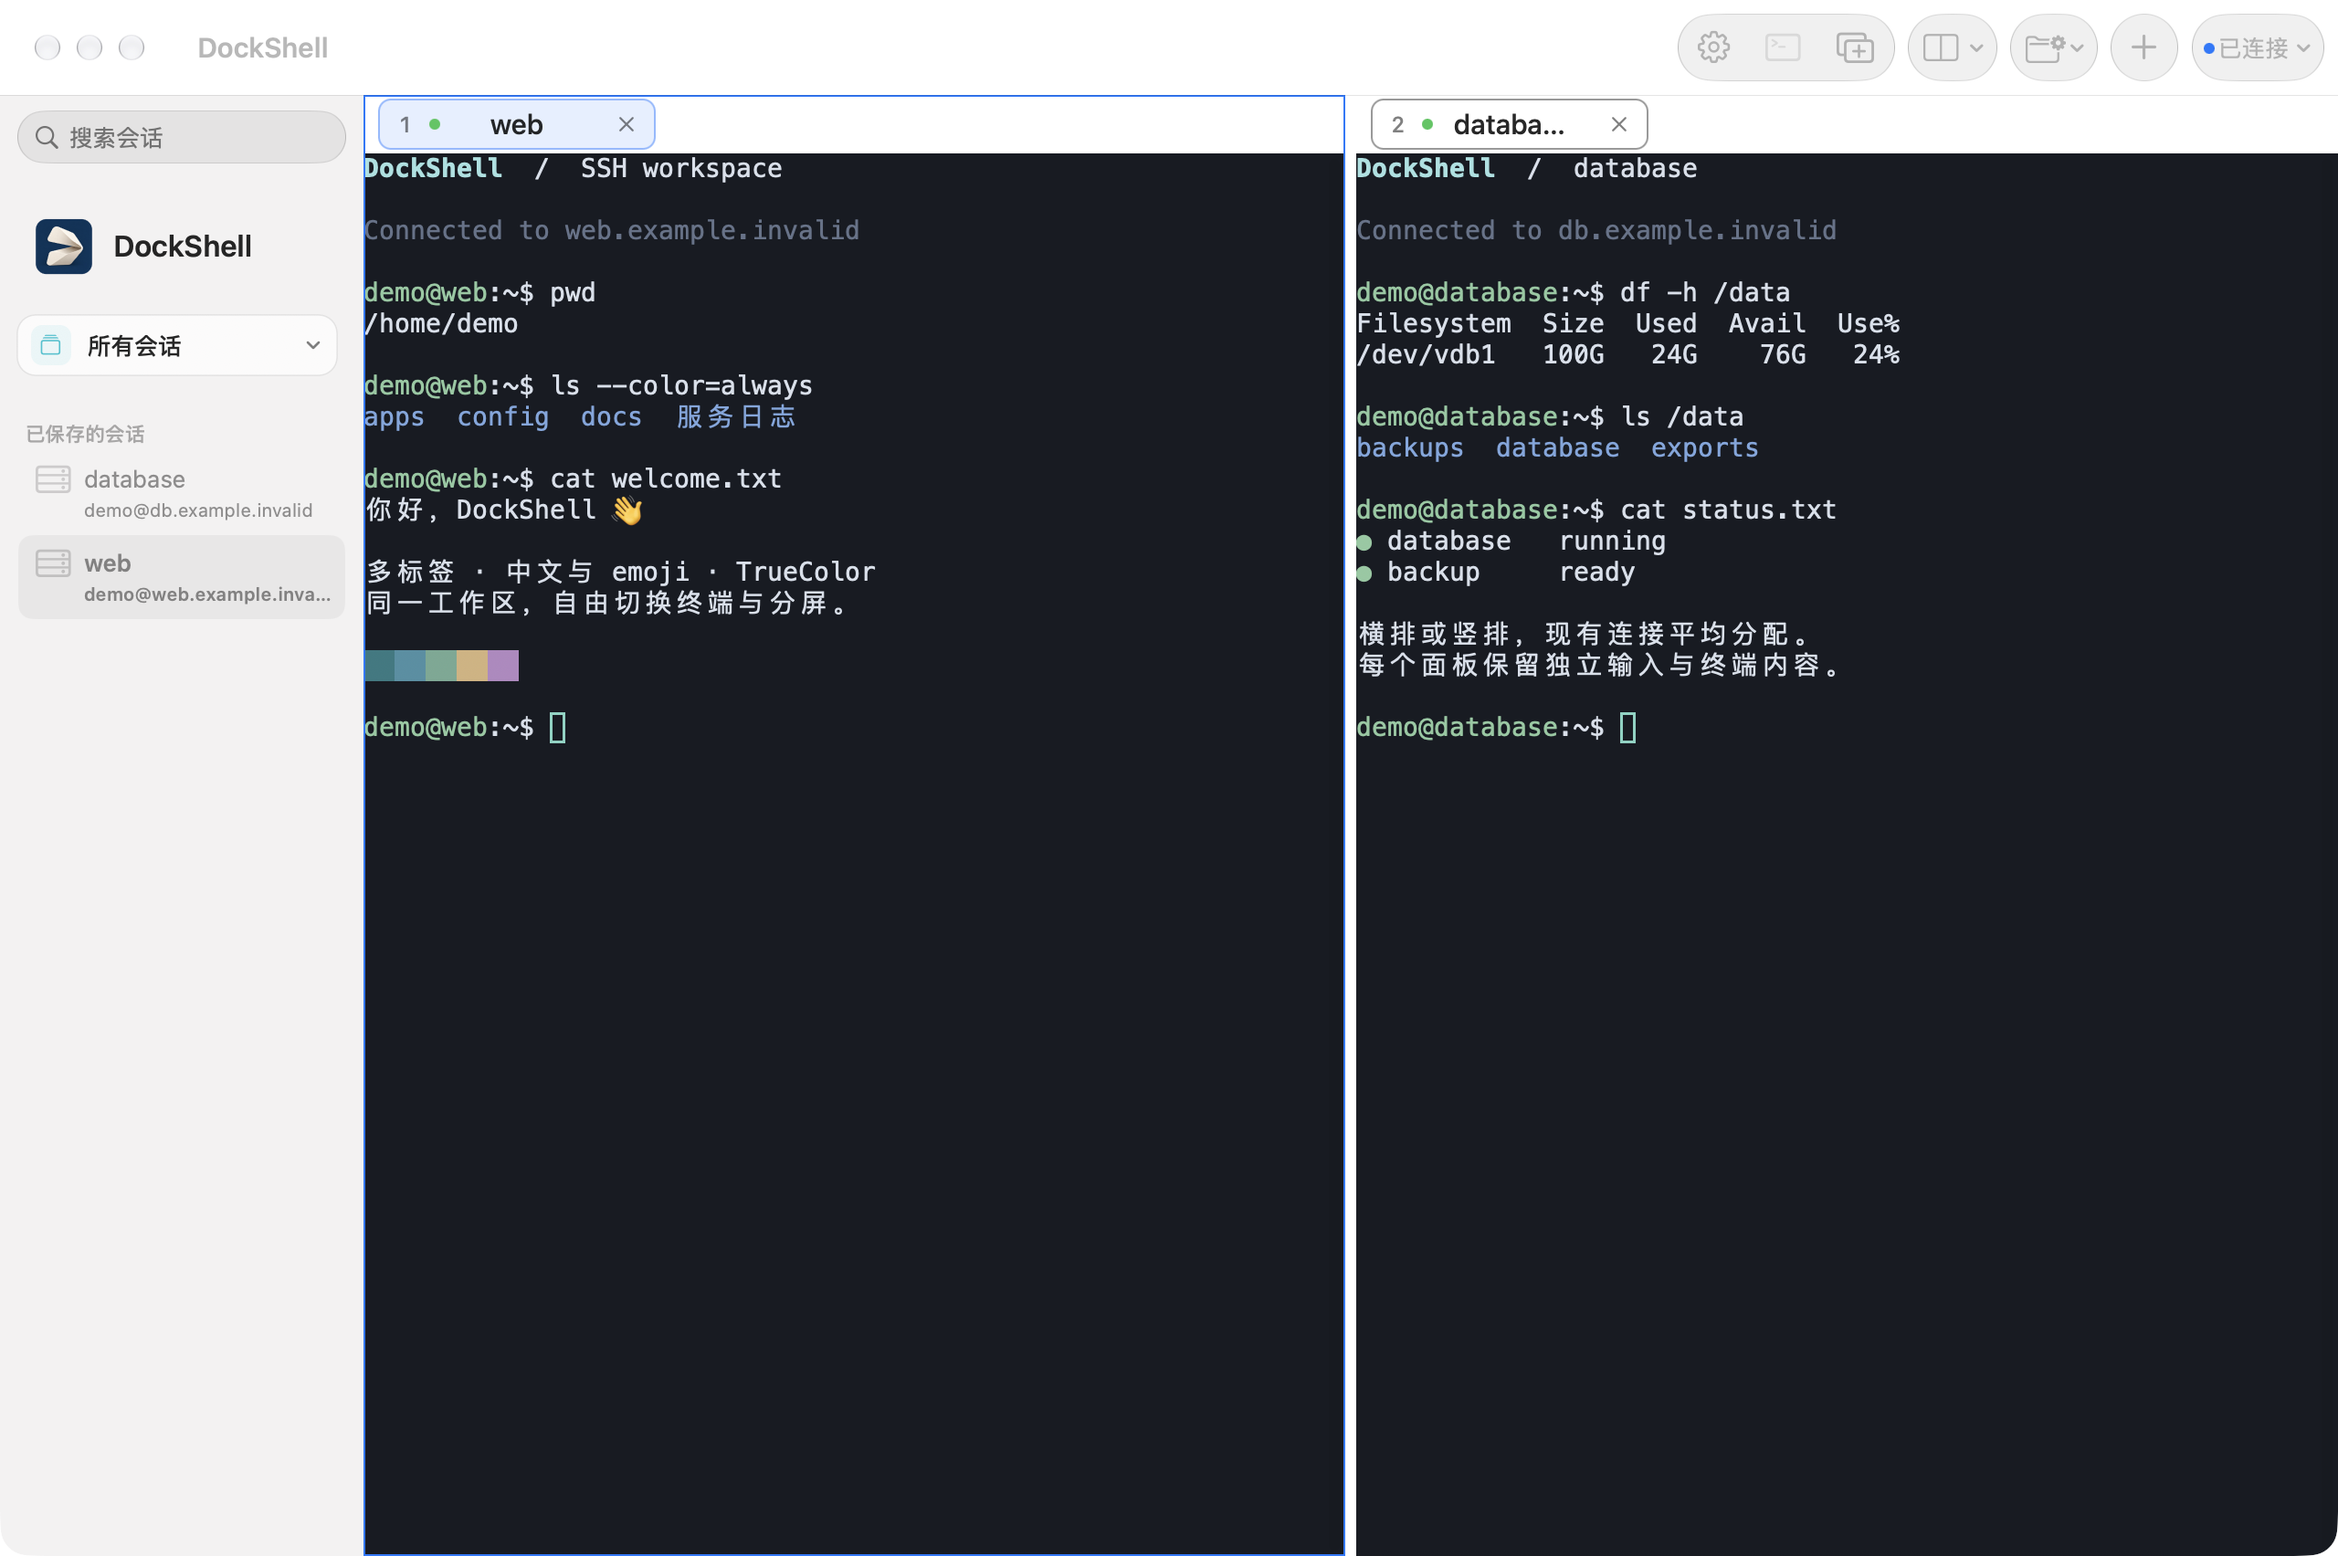
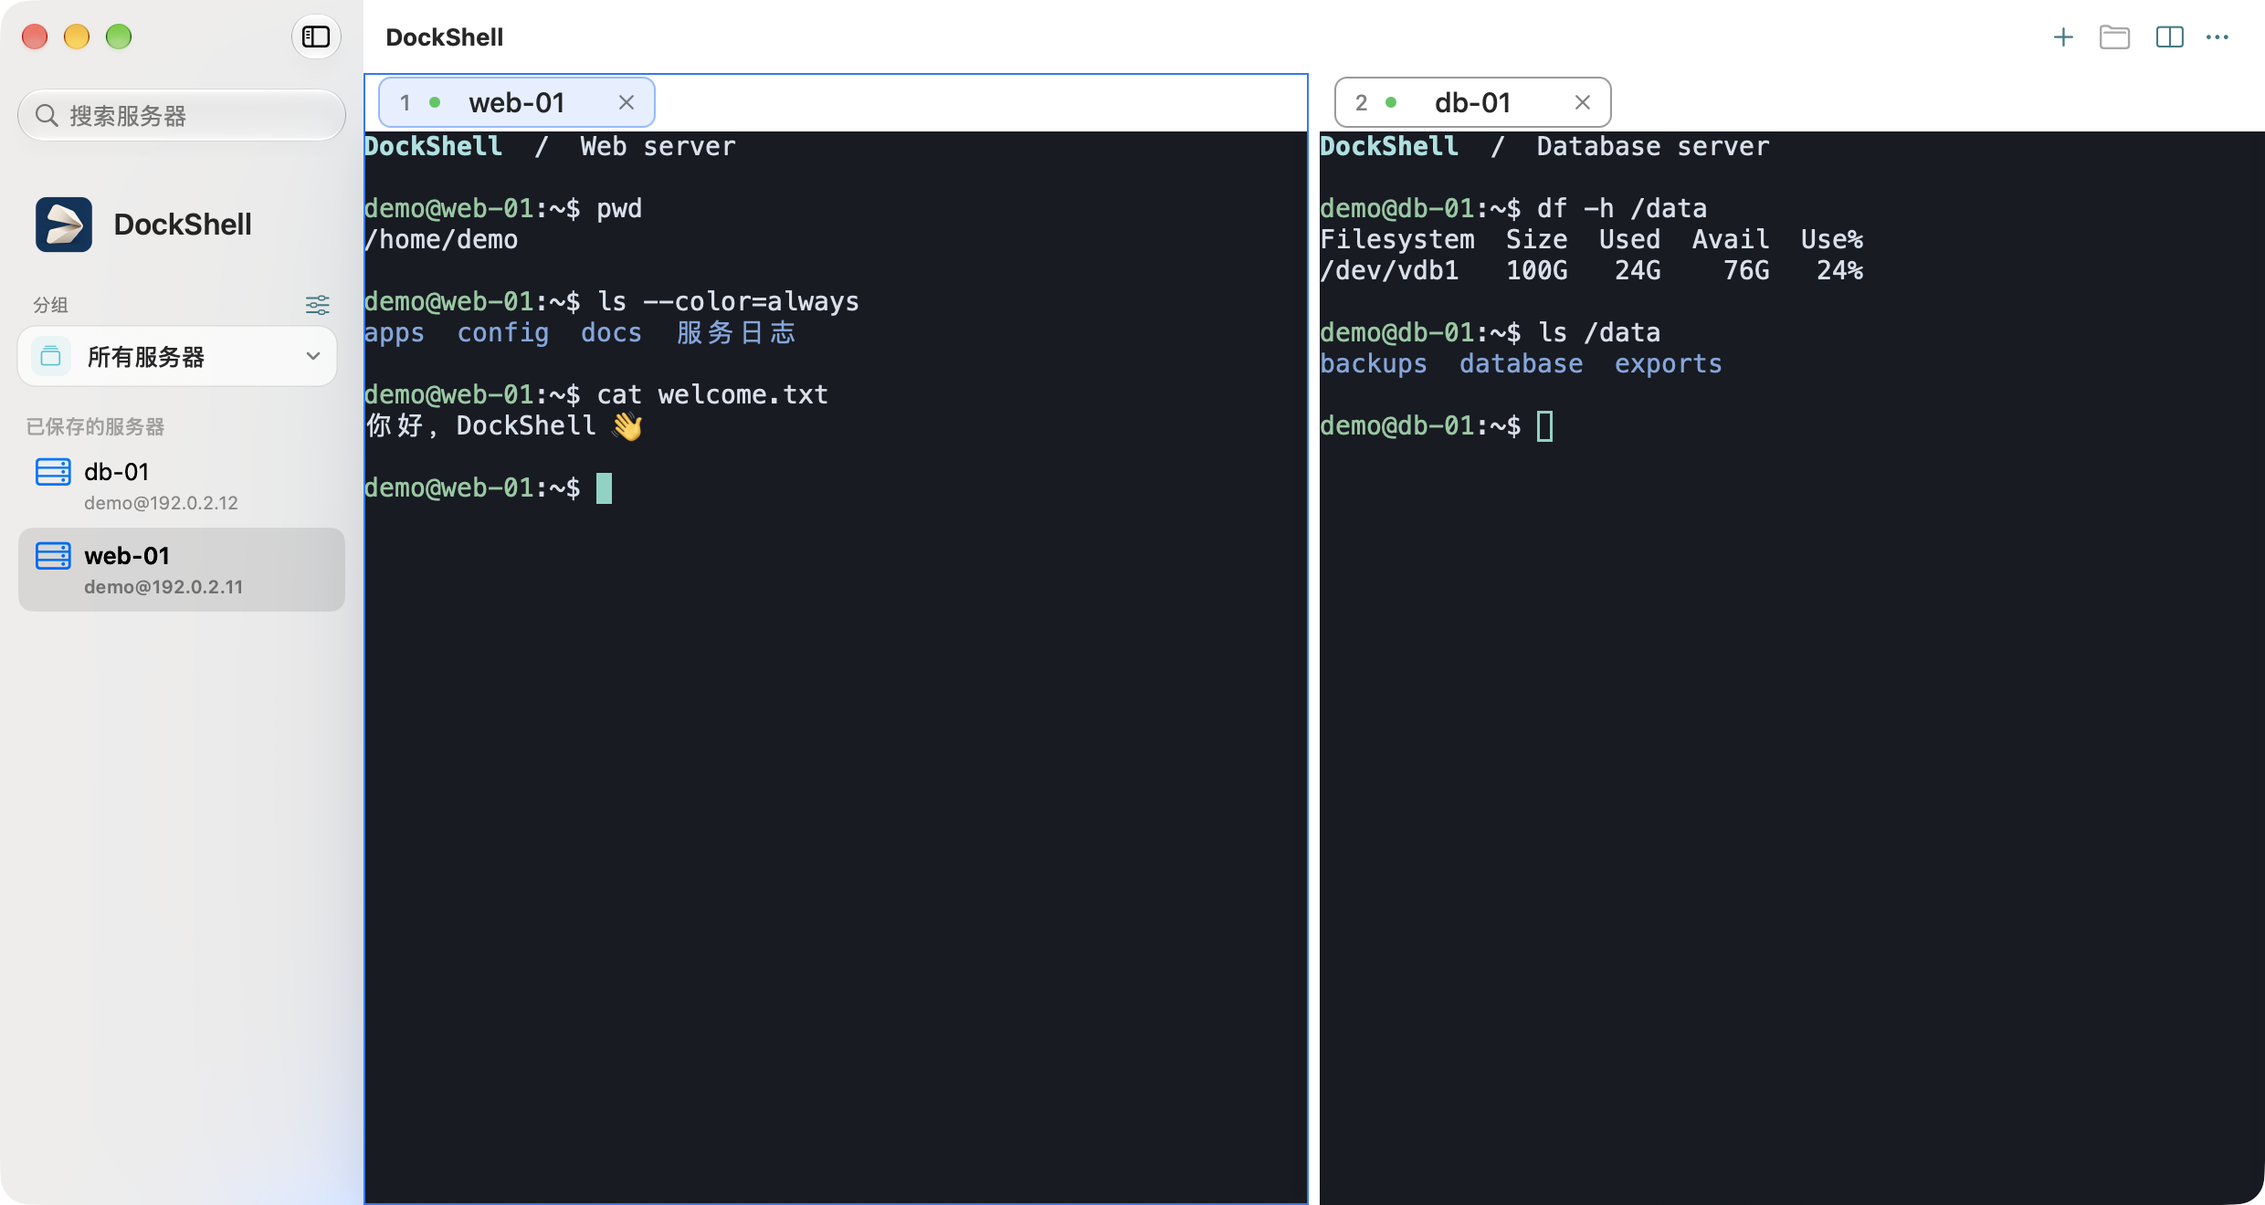
docs: refresh server workspace screenshots

diff --git a/README.md b/README.md
@@ -32,15 +32,15 @@ DockShell 将服务器配置、SSH 终端标签、分屏和远程文件面板集
 
 ## 界面
 
-截图使用演示服务器与示例输出；工具栏等细节以当前版本为准。
+以下截图展示当前简体中文界面，使用演示服务器和示例终端输出。
 
 ### 多标签工作区
 
-![DockShell 多标签终端工作区](Docs/Images/terminal-tabs.png)
+![DockShell 服务器列表与多标签终端](Docs/Images/terminal-tabs.png)
 
 ### 左右并列分屏
 
-![DockShell 左右并列工作区](Docs/Images/terminal-split.png)
+![DockShell 服务器列表与左右并列终端](Docs/Images/terminal-split.png)
 
 ## 安装
 
